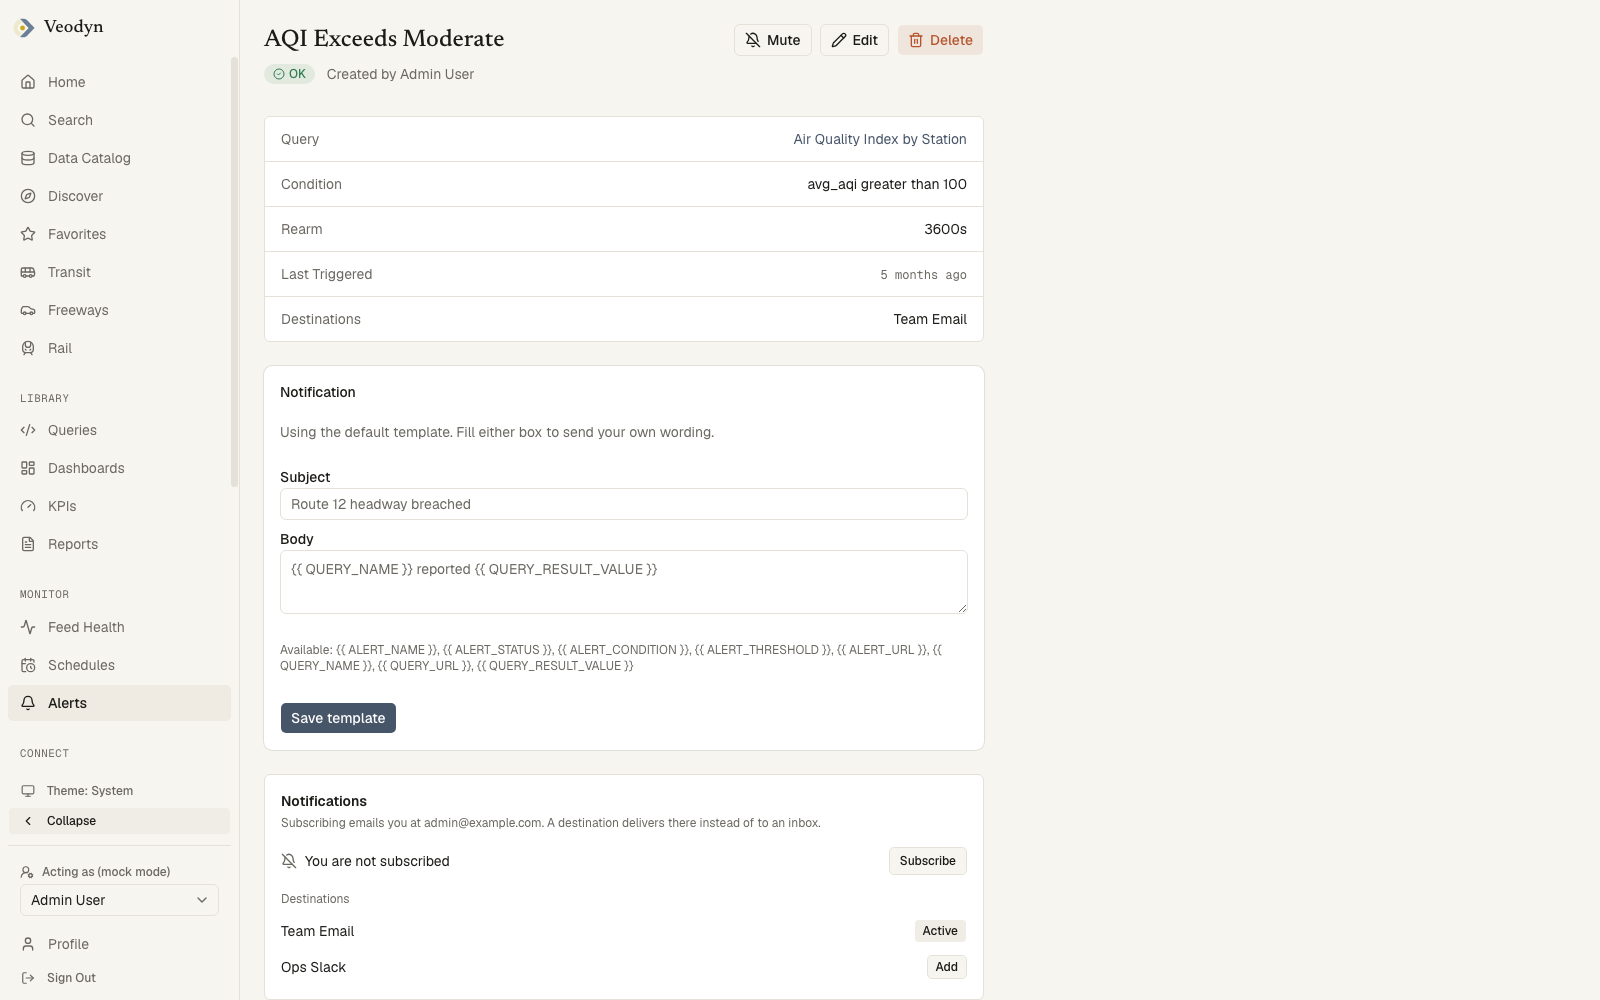
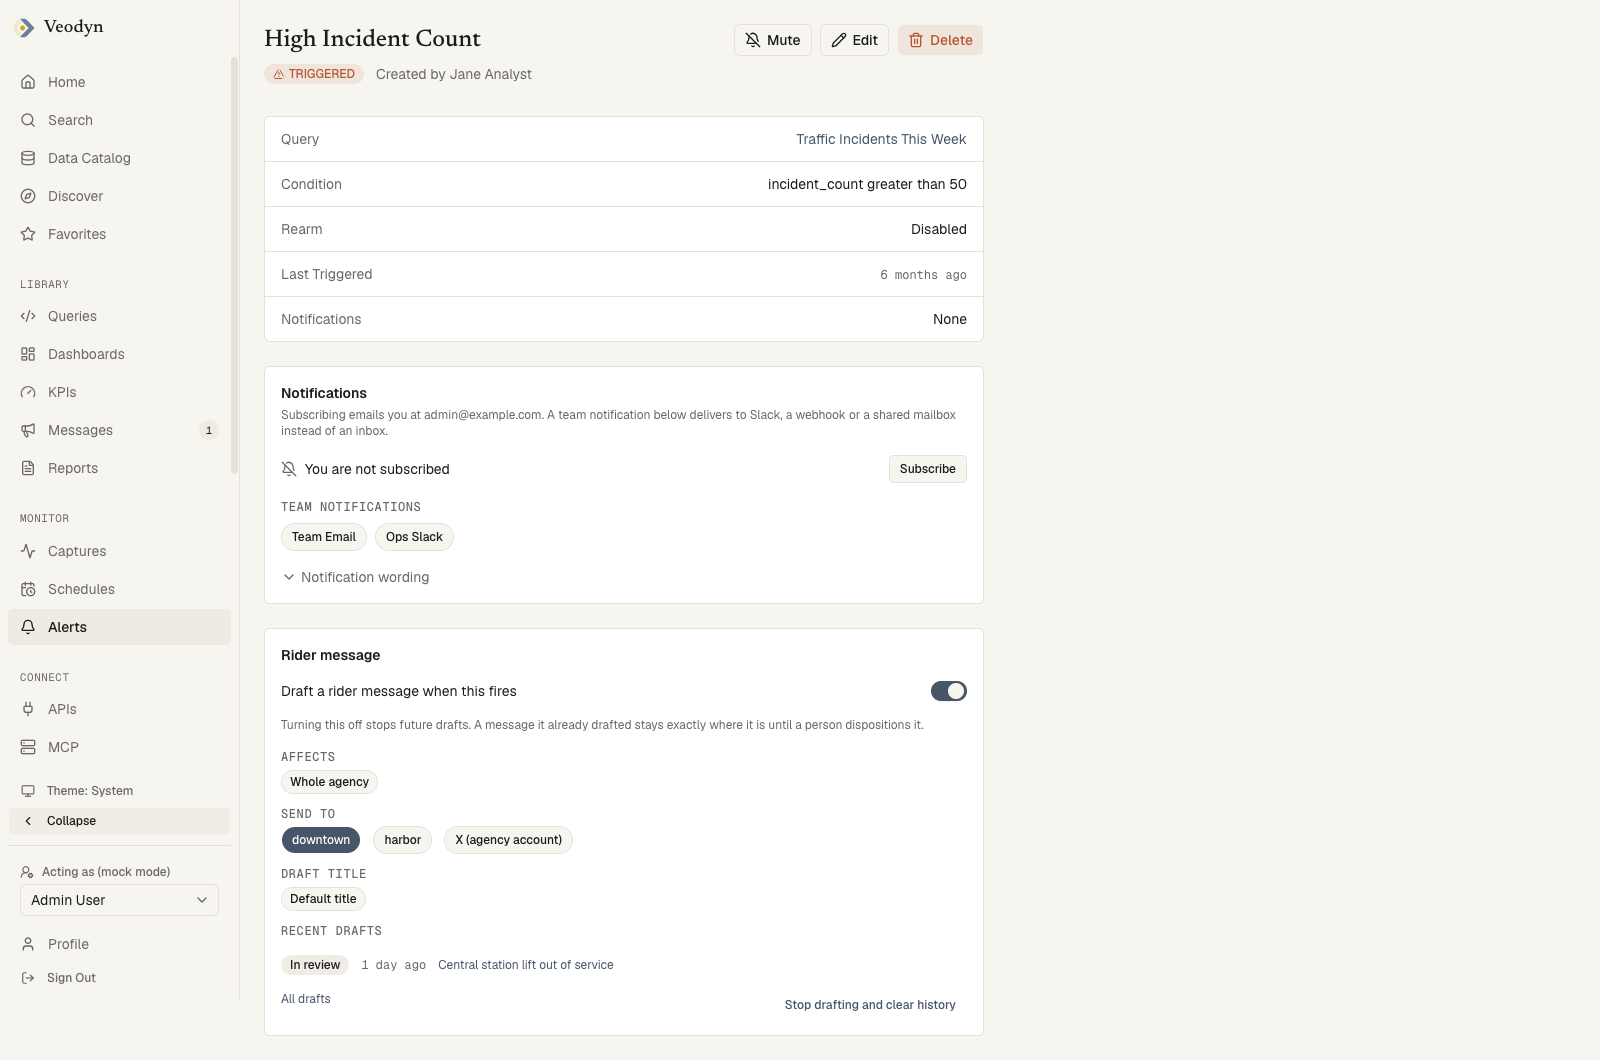
docs: the Messages and Channels pages, and the two flags that switch them on
Two new feature pages: Messages, covering the list, the composer, review
and publishing, the message page and its delivery record, and the Rider
message card an alert or KPI drafts from; and Channels, covering the two
kinds of channel, the admin page, configuring a connector's credentials
without touching the environment, and the three connectors this edition
ships. Six screenshots from the composed tree, and the alert page reshot
since it gained the card.

The configuration page and the example config gain messages.enabled and
connectors.enabled, the editions table gains a Rider communications area,
the navigation page names the two new rows, and the alerts and KPI pages
point at the card. The alerts page also stops calling the internal template
"the message a trigger sends", since a trigger's message is now the rider
one.

diff --git a/docs/sidebars.ts b/docs/sidebars.ts
@@ -26,6 +26,8 @@ const sidebars: SidebarsConfig = {
         'features/sharing',
         'features/connect',
         'features/published-feeds',
+        'features/messages',
+        'features/channels',
         'features/settings',
       ],
     },

diff --git a/docs/docs/features/messages.md b/docs/docs/features/messages.md
@@ -1,0 +1,107 @@
+---
+sidebar_position: 16
+title: Messages
+description: "Rider-facing service messages: the composer, review and approval, publishing to alert feeds and connectors, corrections, delivery records, and the messages an alert or KPI drafts on its own."
+---
+
+# Messages
+
+:::info An enterprise feature
+
+Messages, the Channels page and the connectors that post to social accounts are part of the [enterprise edition](/editions). A community build has no Messages row, and `/messages` returns a 404. Both are also behind two [feature flags](/configuration#feature-flags) that default to off.
+
+:::
+
+A message is something riders read: a detour, a lift outage, a timetable change. It is written once, reviewed by a second person, and then published to every channel it names, whether that is the agency's GTFS-Realtime alert feed, its X account, or its rider notification platform. Messages live at **Library → Messages** (`/messages`).
+
+Nothing reaches a rider until a message is approved and published.
+
+## The list
+
+![The messages list: name, type, cause, owner, state with the on-the-air marker, created and updated](/img/screenshots/messages-list.png)
+
+Four scope tabs sit above the table: **All messages**, **Drafts**, **In review** and **Published**. Published also lists messages that were later unpublished, because they were on the air once and the record stays. Search matches titles, wording, owners, tags and the routes and stops a message names.
+
+| Column | Holds |
+|---|---|
+| Name | The library title, with tags underneath |
+| Type | Detour, Delay, Planned work, Elevator outage, Escalator outage, Emergency or General notice |
+| Cause | The GTFS cause, Construction, Maintenance and so on |
+| Owner | Who created it |
+| State | Draft, In review, Published or Unpublished, plus **On the air** while an active period is running |
+
+The Messages row in the sidebar carries a count of messages waiting for your review, and Home lists them under **Waiting for your review**.
+
+## Writing one
+
+**New Message** opens the composer at `/messages/new`. It is one text box, with the rest arranged around it.
+
+![The composer: the wording box, Send to pills, the Affects row, More options, and a live preview per channel on the right](/img/screenshots/messages-new.png)
+
+**Wording** is what riders read. For a channel that separates a header from a description, such as an alert feed, the first line is the header and the rest is the description, and the preview shows the split. A connector that takes plain text gets the box whole.
+
+**Send to** is one pill per channel, and every channel that is switched on starts selected. A message goes into at most one alert feed, because the routes and stops it names only mean something inside the dataset that feed is built on. Pick a route from one feed and the other feeds lock, with the reason on hover. A connector has no such limit. A channel an administrator has switched off still shows, with a "switched off" caption, and can be selected, since it may be switched back on before the message is published.
+
+**Affects** names the routes, stops or trips the message is about. **Add** opens a search across every alert feed's dataset, grouped by feed; **Whole agency** is the first result when the box is empty. An alert feed refuses a message that names nothing, so the row is required once a feed is in Send to. A message going only to connectors can leave it empty.
+
+**Until** appears once an alert feed is in Send to, with two choices: **Further notice**, or **A time** with one end. The start is now. A connector posts once when the message is published, and the end does not take the post down again, so the row stays hidden for a connector-only message and the preview card says so instead.
+
+**More options** is closed by default and never changes what would be sent. It holds separate Header and Description boxes, the situation type with GTFS severity, cause and effect, translations, wording for a particular connector, extra active periods, and the title shown in the library. A stored message whose header is not the first line of its description opens with it expanded, so nothing is hidden.
+
+**Preview** on the right is one card per channel in Send to, showing the exact text that channel would receive and the count against its cap. A channel that would refuse the message says why inside its card, and **Send for review** stays off until every card is clean. **Save draft** needs only a non-empty box.
+
+## Review and publishing
+
+A message moves through four states, and the header of its page offers only the actions that apply.
+
+| State | Actions |
+|---|---|
+| Draft | Edit, Send for review, Delete |
+| In review | Approve, then Publish; or Reject |
+| Published | Correct, Unpublish |
+| Unpublished | Edit, Send for review |
+
+Approve, Reject, Publish, Unpublish and Resend need the `publish_message` permission, or an administrator. Reject asks for a note and returns the message to draft.
+
+The [four-eyes rule](/features/reports#review-and-publishing) that governs reports applies here too, through the same `reports.require_separate_approver` setting: the person who sent a message for review cannot approve it. A message drafted by an alert or KPI needs a separate approver whatever the setting says, since the author was a machine.
+
+A message that changes after approval loses that approval and goes back for review. Publishing sends it to every channel in Send to in one go.
+
+## The message page
+
+![A published message: the wording, its Affects, Until and Send to chips, the Delivery section, and the preview of what the feed is carrying](/img/screenshots/message-detail.png)
+
+The wording as written, then Affects, Until and Send to as read-only chips. **Delivery** appears once a message has been published: one row per channel with its outcome, the time, and where the connector returns one, a link to the post.
+
+| Outcome | Meaning |
+|---|---|
+| Queued | Handed to the channel, not yet confirmed |
+| Delivered | The channel took it; a feed shows when it has been in the feed since |
+| Failed | The channel refused or did not answer, with a Retry beside it |
+| Withdrawn | The active period ended and the feed no longer carries it |
+| Superseded | A later revision replaced this one on the channel |
+
+**Resend** at the foot of the section sends the approved revision again to every channel, for the case where a channel was down or was switched on after publishing.
+
+**Correct** on a published message opens the composer on a copy. The original stays on the air until the correction is approved, and the preview shows both, labelled **Carrying** and **Proposed**. A feed takes the correction in place. A connector cannot take back a post, so a correction there goes out as a follow-up, and the connector's page says which of the two it does.
+
+**Unpublish** withdraws the message from every feed it is in and rebuilds them. The dialog names what stops being served before you confirm.
+
+## From an alert or KPI
+
+An [alert](/features/alerts) or a [KPI](/features/kpis) can draft a rider message on its own each time it fires. The **Rider message** card on the alert or KPI page holds the switch, **Draft a rider message when this fires**, and the three things a draft is built from.
+
+![An alert page with the Rider message card: the switch, Affects, Send to, the draft title, and recent drafts](/img/screenshots/alert-detail.png)
+
+- **Affects** is the rule for what each draft names: the whole agency, or a route, stop or trip read from a column of the alert's result, such as `route_id`. Switching the card on infers this from the result's columns. Click the chip to change it; the editor asks one question and saves only on **Save**. With no alert feed under Send to, the editor asks nothing, since a connector needs no entity.
+- **Send to** is the same pills as the composer. Ticking a different alert feed moves the rule to that feed's dataset.
+- **Draft title** is the library title each draft gets, the alert's name unless you change it.
+- **Recent drafts** lists the last five, each a link to the message, with **All drafts** opening the list filtered to this trigger.
+
+A draft lands in review and stays there until a person approves or rejects it, like any other message. On a KPI, switching the card on arms the KPI's alert first, since there is no breach to answer without one.
+
+**Stop drafting and clear history** deletes the rule and its firing record. The drafts it already wrote stay as messages.
+
+## Where a message can go
+
+Every channel a message can name is listed on the Channels page, and that is also where an administrator switches one off or configures a connector's credentials. See [Channels](/features/channels).

diff --git a/docs/docs/features/channels.md b/docs/docs/features/channels.md
@@ -1,0 +1,72 @@
+---
+sidebar_position: 17
+title: Channels
+description: "Where a message can go: alert feeds and connectors, the Channels admin page, switching a channel off, and configuring a connector's credentials without touching the environment."
+---
+
+# Channels
+
+:::info An enterprise feature
+
+The Channels page and the connectors below are part of the [enterprise edition](/editions), and sit behind the `messages` and `connectors` [feature flags](/configuration#feature-flags).
+
+:::
+
+A channel is any place a [message](/features/messages) can go. There are two kinds.
+
+- An **alert feed** is a [published feed](/features/published-feeds) of GTFS-Realtime service alerts. A message published to it is served to every rider app reading that feed for as long as its active period runs, and withdrawn when the period ends.
+- A **connector** posts to an account the agency already has: its X account, its Facebook Page, or the notification platform that holds its rider subscriptions. A message is sent once, when it is published, and the end of its active period does not take the post down.
+
+An alert feed becomes a channel the moment it is published. A connector becomes one the moment its credentials are saved.
+
+## The Channels page
+
+**Admin → Channels** (`/admin/channels`) lists every channel this organization can address.
+
+![The Channels page: each channel's kind, standing, On switch and Configure link](/img/screenshots/admin-channels.png)
+
+| Column | Holds |
+|---|---|
+| Channel | The display name, with the channel id underneath |
+| Kind | Alert feed or Connector, with what the end of an active period does on it |
+| Standing | Reaching riders, Nothing published yet, or Switched off |
+| On | The switch |
+| Configure | The feed's publishing settings under Connect, or the connector's credentials page |
+
+**Reaching riders** means at least one message has been published to the channel. **Nothing published yet** means none has, which is normal for a channel that was just added.
+
+Switching a channel off keeps it on the list and keeps it selectable in the composer, with a "switched off" caption. What changes is delivery: a published message is not sent to a channel that is off, and an alert feed that is off is not rebuilt. The row says which of the two applies.
+
+**Add channel** offers the two kinds. An alert feed is declared under [Published Feeds](/features/published-feeds), and a connector on its own page, below.
+
+## Configuring a connector
+
+A connector's page (`/connectors/<id>`) is where its credentials are entered. Nothing about a connector comes from the environment or the config file: the credentials are stored per organization when you save, and the same page is where they are replaced.
+
+![The X connector's page: its health, the name, and a keep-or-replace choice for each stored credential](/img/screenshots/connector-detail.png)
+
+Stored credentials are never read back. Each one shows a choice instead: **Keep the value this instance already holds**, or **Replace it with a new value**. An optional credential adds **Leave this unset**. Saving with a replaced value tests it against the service before storing it, and a value the service refuses is not stored.
+
+The pill in the header is the connector's health:
+
+| Health | Meaning |
+|---|---|
+| Untested | Credentials accepted, nothing delivered through it yet |
+| Delivering | The last delivery succeeded |
+| Failing | The last delivery did not, and the line under the pill says why |
+
+**Remove** takes the connector off the channel list.
+
+Adding one starts at `/connectors/new`, which offers the connector types this deployment has installed and then the fields that type needs. A type can be configured once per organization.
+
+## The connectors
+
+| Connector | Posts to | Credentials | Cap |
+|---|---|---|---|
+| X (agency account) | The agency's own X account | A user-context access token issued on the agency's X developer account, and the handle it belongs to | 280 characters, a URL counting as 23 |
+| Facebook Page | The agency's own Page | The Page id and a Page access token issued to the agency's Meta app | 63,206 characters |
+| Incumbent notifier (rider email and SMS) | The agency's existing notification platform, which owns every subscriber and their consent | The platform's API base URL, the topic a bulletin fans out to, and an API key issued on the agency's account | None |
+
+All three take plain text, so a message carrying markup is refused for them in the composer's preview. None of them can take a post back once it is out, which is why a correction to a message that went to a connector is sent as a follow-up rather than replacing the original.
+
+The composer shows each connector's cap in its preview card, and a message over the cap cannot be sent for review until it fits.

diff --git a/docs/docs/configuration.md b/docs/docs/configuration.md
@@ -56,10 +56,17 @@ Declaring a key here does not put anything in it. The list decides which domains
 features:
   query_snippets: true   # default false
   query_drafts: true     # default false
+
+messages:
+  enabled: true          # default false
+connectors:
+  enabled: true          # default false, and needs messages.enabled
 ```
 
 - **Query Snippets**: reusable SQL fragments expanded by a trigger word in the editor. With it off, the route 404s and the nav row is absent rather than greyed out.
 - **Query drafts**: with it on, a saved query stays private (with a Draft badge) until its author picks "Share with the team". This governs the query list rather than access, so anyone who can reach the data source can still open a draft from its link. Off (the default), the word "draft" appears nowhere.
+- **Messages**: the rider-facing [message](/features/messages) surface, on an [enterprise](/editions) build. Off, the Messages row and the Channels admin page are absent and their routes 404.
+- **Connectors**: the [connector](/features/channels) routes and the sidecar endpoints behind them. Off, the connector pages 404 and only alert feeds can carry a message. The file refuses `connectors.enabled` without `messages.enabled`, since a connector is an outbound channel for a message and there is nothing to send with messages off. A connector's own credentials are entered on its page and stored per organization; nothing about them goes in this file or the environment.
 
 ## AI
 
@@ -93,24 +100,6 @@ assistant:            # an external chat widget on Home; no URL, no widget
   integration_id: my-instance
   title: "Data Assistant"
 ```
-
-## Edition badge
-
-```yaml
-deployment:
-  scale: hub   # node (default) or hub
-```
-
-A chip beside the brand mark reads **CE**, **EE** or **HUB**, and hovering it
-spells the [edition](/editions) out: Community Edition, Enterprise Edition or
-Enterprise Hub. The two halves of that answer come from different places.
-Whether a build is community or enterprise follows from the feature packages
-inside the image, so no key configures it and a community build cannot claim
-more than it contains. Scale is a deployment role with no code behind it, so
-it is declared here: `hub` turns an enterprise build's EE into HUB. On a
-community build it changes nothing and warns once at startup, since there is
-no community hub. Collapse the sidebar to a rail and the chip folds into the
-brand mark's tooltip.
 
 ## Visualization allowlist
 

diff --git a/docs/docs/features/navigation.md b/docs/docs/features/navigation.md
@@ -38,10 +38,10 @@ The left rail can be collapsed to icons, and the state is remembered per browser
 Sections, top to bottom:
 
 - **Ungrouped**: Home, Search, Data Catalog, Discover, Favorites, then one row per configured [domain](/configuration#domains) (Transit, Freeways, ...).
-- **Library**: Queries, Dashboards, and Query Snippets when that feature is enabled. Plus KPIs and Reports on an [enterprise](/editions) build.
+- **Library**: Queries, Dashboards, and Query Snippets when that feature is enabled. Plus KPIs, Messages and Reports on an [enterprise](/editions) build.
 - **Monitor**: Captures, Schedules. Plus Alerts on an enterprise build.
 - **Connect**: APIs, MCP.
-- **Admin** (admins only): Data Sources, Team, Plugins, Settings, and, for super admins, System Status, Query Jobs, and Outdated Queries. Plus Alert Notifications and Shared Links on an enterprise build.
+- **Admin** (admins only): Data Sources, Team, Plugins, Settings, and, for super admins, System Status, Query Jobs, and Outdated Queries. Plus Alert Notifications, Channels, Managed Datasets and Shared Links on an enterprise build.
 
 A surface that is switched off in the instance config has no nav row at all, and its route returns a 404, rather than a greyed-out entry for something you cannot use. An enterprise feature on a community build behaves the same way: the row is absent rather than disabled, and nothing anywhere advertises it.
 

diff --git a/docs/docs/features/alerts.md b/docs/docs/features/alerts.md
@@ -1,7 +1,7 @@
 ---
 sidebar_position: 8
 title: Alerts & Destinations
-description: "Watching conditions on query results, KPI-managed alerts, notification templates and subscriptions, and the admin-configured alert destinations."
+description: "Watching conditions on query results, KPI-managed alerts, team notifications and subscriptions, and the admin-configured alert destinations."
 ---
 
 # Alerts & Destinations
@@ -57,8 +57,11 @@ An alert id that does not exist says **Alert not found**.
 
 Below the facts, each alert has:
 
-- A **notification template** editor, controlling the message a trigger sends.
 - **Subscriptions**: who gets notified, and through which destination.
+- **Team notifications**: a switch per destination.
+- **Notification wording**: a collapsed editor for the internal template a team notification carries.
+
+Nothing in this card reaches a rider. On a build with [messages](/features/messages) on, a second card, **Rider message**, drafts a rider-facing message each time the alert fires; see [From an alert or KPI](/features/messages#from-an-alert-or-kpi).
 
 ## Destinations (admin)
 

diff --git a/docs/docs/features/kpis.md b/docs/docs/features/kpis.md
@@ -131,6 +131,8 @@ If the save fails you stay on the form with the reason, rather than landing on a
 
 The notify toggle arms a real [alert](/features/alerts) whose condition follows the KPI's breached threshold. Recipients are added on the alert itself once it exists.
 
+On a build with [messages](/features/messages) on, the KPI page also carries a **Rider message** card, which drafts a message for riders each time the KPI breaches. Switching it on arms the alert first, since there is no breach to answer without one. The card is described under [From an alert or KPI](/features/messages#from-an-alert-or-kpi).
+
 ## Reading a KPI
 
 ![A KPI's page: scorecard, history chart with bands, and the definition card](/img/screenshots/kpi-detail.png)

diff --git a/docs/docs/editions.md b/docs/docs/editions.md
@@ -76,6 +76,9 @@ and is licensed commercially.
 | | The Home digest and annotation suggestions | | ● |
 | **Notifications** | Email and webhook destinations | ● | ● |
 | | Chat and paging destinations | | ● |
+| **Rider communications** | [Messages](/features/messages): the composer, review and approval, publishing to alert feeds | | ● |
+| | [Channels](/features/channels) and the X, Facebook Page and rider-notifier connectors | | ● |
+| | Rider messages drafted by an alert or KPI | | ● |
 | **Sign-in** | Password and Google OAuth | ● | ● |
 | | SAML, LDAP, header and JWT authentication | | ● |
 
